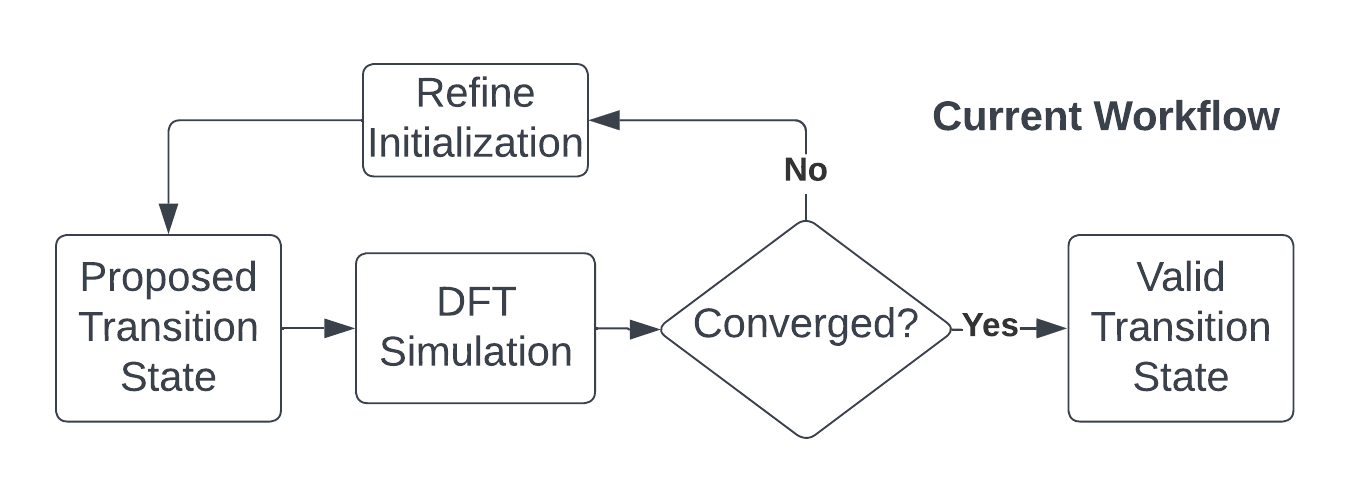
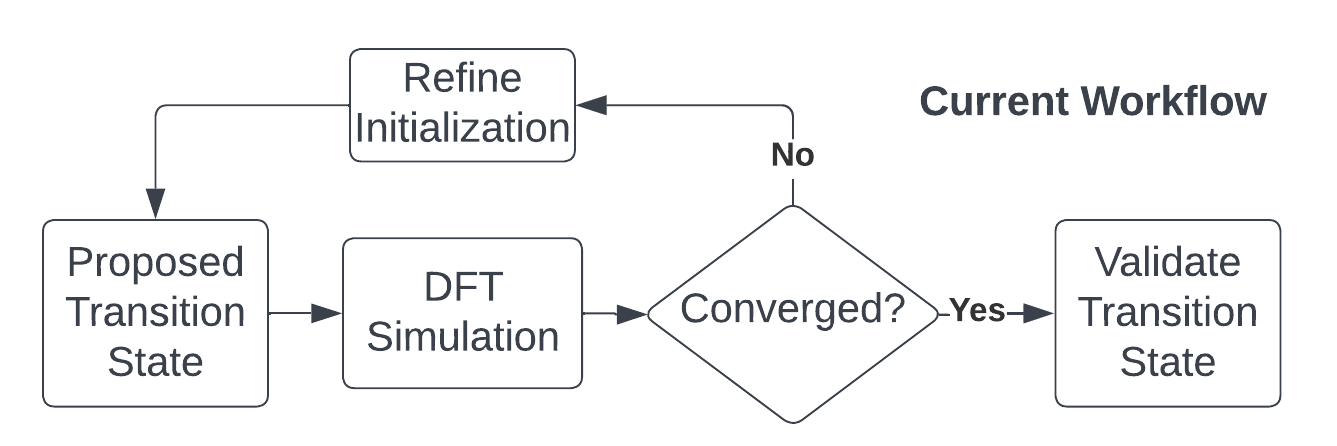
Paper Revisions - see extended description
- reduce scope of project to predicting if proposed transition states will converge in dft, not if they are valid (same work as before, but with clearer language)
 - update figures to match the above point
 - break out abstract into more section, add other needed section
 - new, more descriptive title

diff --git a/paper/paper.md b/paper/paper.md
@@ -1,12 +1,16 @@
 ---
-title: "`XTBTSScreener.jl` - Screening Likely Transition States with Julia and Machine Learning"
-date: "March 2023"
+title: "`XTBTSScreener.jl` - Saving CPU Cycles with Julia and Machine Learning"
+date: "April 2023"
 author: "Jackson Warner Burns _Computational Science and Engineering, MIT_"
 geometry: margin=2cm
 ---
 
 # Abstract
+In chemical kinetics, proposed chemical reaction transition states are optimized with computationally expensive simulations for subsequent analysis and investigation.
+Often these simulations will fail to converge and require multiple runs to achieve the desired result, which wastes compute hours and impedes research.
+Using Julia and Machine Learning `XTBTSScreener.jl` is created as a way to predict which proposed transition states are likely to converge _before_ investing compute hours.
 
+# Background
 In chemical kinetics, quantum mechanical simulations are often used to probe the complexities of novel reactions.
 One particular use case is the calculation of rate constants.
 This requires predicting the three-dimensional electronic structure of the starting materials, the products, and - most importantly - the transition state.
@@ -17,23 +21,28 @@ The typical workflow for doing so is shown in Figure 1 and explained in-depth be
 ![Current Transition State Search Workflow](https://raw.githubusercontent.com/JacksonBurns/xtb-ts-screener/main/paper/images/current_workflow_diagram.png){ height=125px }
 
 First, a 'guess' at the possible transition state is created.
-Creating this initialization has historically been done by hand with expert input and computationally inexpensive but less accurate simulation methods, though systems are now being developed to predict transition states directly [@tsguessgan].
+Creating this initialization has historically been done by hand with expert input and computationally inexpensive, but less accurate, simulation methods.
+Systems are now being developed to predict transition states directly [@tsguessgan] but are imperfect.
 Next, the possible transition state is subjected to an expensive quantum mechanics simulation.
-In this study, Density Functional Theory (DFT) is used to verify if the transition state is chemically valid.
-Validity is indicated by the DFT simulation finishing normally (i.e. the simulation "converged") rather than terminating mid-execution.
+In this study, Density Functional Theory (DFT) is used to optimize the _proposed_ transition state to hopefully arrive at a _valid_ transition state.
+
+Validity is determined by subsequent steps in the workflow which are beyond the scope of this study.
+This work focuses on predicting if the DFT simulation will finish execution normally (i.e. the simulation "converged") rather than terminating mid-execution, which is a risk inherent in the process of proposing transition states.
 DFT scales by $O(n^3)$ for $n$ electrons in the system, thus simulation times can be weeks or longer for common systems of interest.
-If not converged, this entire process must be repeated until the DFT simulation is successful and a valid transition state is found.
+If not converged, this entire process must be repeated until the DFT simulation.
 Every failed calculation effectively wastes hundreds of compute hours.
 
-To accelerate this workflow it would be useful to estimate _a-priori_ if a suggested transition state is _"likely to converge"_ before simulating with DFT.
-To study this, members of the Green Group have collected a dataset containing many thousands of expert-suggested possible transition states for reactions of interest in the chemical kinetics field.
+To accelerate this workflow it would be useful to estimate _a-priori_ if a proposed transition state is _"likely to converge"_ before simulating with DFT.
+To study this, members of the Green Group have collected a dataset containing many thousands of expert-suggested proposed  transition states for reactions of interest in the chemical kinetics field.
 These structures were partially optimized using Extended Tight Binding semi-empirical quantum mechanics simulations (xTB), which is a computationally inexpensive method to arrive at a reasonable initialization.
-All examples were then carried forward to DFT and approximately 50% did not converge, i.e. failed to produce a valid transition state from the initialization.
-By using the atomic coordinates of these proposed transition state structures as features and the convergence or non-convergence of the corresponding DFT simulation as a label, we can train a machine learning (ML) model to classify suggested transition states as _"likely to converge"_ or not: `XTBTSScreener.jl`.
+All examples were then carried forward to DFT and approximately 50% did not converge, wasting CPU cycles and requiring additional simulations.
+By using the atomic coordinates of these proposed transition state structures as features and the convergence or non-convergence of the corresponding DFT simulation as a label, a machine learning (ML) model will classify suggested transition states as _"likely to converge"_ or not: `XTBTSScreener.jl`.
 This is shown schematically in Figure 2.
 
 ![Proposed Enhanced Transition State Search Workflow](https://raw.githubusercontent.com/JacksonBurns/xtb-ts-screener/main/paper/images/proposed_workflow_diagram.png){ height=125px }
 
+
+# Methods
 This ML model will be implemented using a Neural Network (NN) in Julia.
 The longer-term use case of `XTBTSScreener.jl` would be within a much larger closed-loop optimization tool, so the speed of Julia will be critical in making this approach worthwhile.
 The `Lux.jl` [@pal2022lux] package will be used to configure models and the Adam optimiser [@kingma2017adam] will be used in model training to enable more rapid convergence.
@@ -41,7 +50,11 @@ The `Lux.jl` [@pal2022lux] package will be used to configure models and the Adam
 If initial modeling efforts are unsuccessful, a Graph Neural Network (GNN) will be used via `GraphNeuralNetworks.jl` [@Lucibello2021GNN].
 Literature precedent from the chemical informatics field at large indicates that GNNs often perform better than typical NNs on chemical data.
 The dataset of proposed transition states partially optimized by xTB and their corresponding converged/failed label has been graciously provided for use by Haoyang Wu of the Green Group.
-The authors acknowledge the MIT SuperCloud and Lincoln Laboratory Supercomputing Center for providing HPC resources that have contributed to the generation of this dataset [@reuther2018interactive].
+
+# Acknowledgements
+The author thanks Green Group member Haoyang Wu for performing the calculations and providing the data which was used in this study.
+
+The author acknowledges the MIT SuperCloud and Lincoln Laboratory Supercomputing Center for providing HPC resources that have contributed to the generation of this dataset and training of `XTBTSScreener.jl` [@reuther2018interactive].
 
 
 # References
